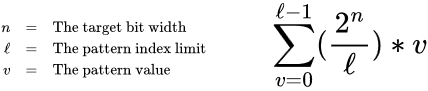
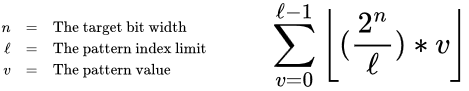
Added flooring to the formulas

diff --git a/enigma2/E2S1 - Index Diminishment.md b/enigma2/E2S1 - Index Diminishment.md
@@ -84,19 +84,19 @@ formula arises -
     ℓ = The pattern index's limit
     𝑣 = The pattern's numeric value
 
-    𝑥 = (2ⁿ/ℓ) * 𝑣
+    𝑥 = ⌊(2ⁿ/ℓ) * 𝑣⌋
 
     let 𝑛 = 7
 
         ⬐ The pattern
-    [ 0 0 0   0 0 0 0 0 ]   (0) = (2⁷/8) * 0
-    [ 0 0 1   0 0 0 0 0 ]  (16) = (2⁷/8) * 1
-    [ 0 1 0   0 0 0 0 0 ]  (32) = (2⁷/8) * 2
-    [ 0 1 1   0 0 0 0 0 ]  (48) = (2⁷/8) * 3
-    [ 1 0 0   0 0 0 0 0 ]  (64) = (2⁷/8) * 4
-    [ 1 0 1   0 0 0 0 0 ]  (80) = (2⁷/8) * 5
-    [ 1 1 0   0 0 0 0 0 ]  (96) = (2⁷/8) * 6
-    [ 1 1 1   0 0 0 0 0 ] (112) = (2⁷/8) * 7
+    [ 0 0 0   0 0 0 0 0 ]   (0) = ⌊(2⁷/8) * 0⌋
+    [ 0 0 1   0 0 0 0 0 ]  (16) = ⌊(2⁷/8) * 1⌋
+    [ 0 1 0   0 0 0 0 0 ]  (32) = ⌊(2⁷/8) * 2⌋
+    [ 0 1 1   0 0 0 0 0 ]  (48) = ⌊(2⁷/8) * 3⌋
+    [ 1 0 0   0 0 0 0 0 ]  (64) = ⌊(2⁷/8) * 4⌋
+    [ 1 0 1   0 0 0 0 0 ]  (80) = ⌊(2⁷/8) * 5⌋
+    [ 1 1 0   0 0 0 0 0 ]  (96) = ⌊(2⁷/8) * 6⌋
+    [ 1 1 1   0 0 0 0 0 ] (112) = ⌊(2⁷/8) * 7⌋
                   ⬑ The trailing zeros
 
 Now you can recursively apply this operation against an index one pattern bit width smaller in size until you
@@ -104,26 +104,26 @@ reach zero bits -
 
     𝑛 = 𝑛 - 3
 
-            [ 0 0 0   0 ]   (0) = (2⁴/8) * 0
-            [ 0 0 1   0 ]   (2) = (2⁴/8) * 1
-            [ 0 1 0   0 ]   (4) = (2⁴/8) * 2
-            [ 0 1 1   0 ]   (6) = (2⁴/8) * 3
-            [ 1 0 0   0 ]   (8) = (2⁴/8) * 4
-            [ 1 0 1   0 ]  (10) = (2⁴/8) * 5
-            [ 1 1 0   0 ]  (12) = (2⁴/8) * 6
-            [ 1 1 1   0 ]  (14) = (2⁴/8) * 7
+            [ 0 0 0   0 ]   (0) = ⌊(2⁴/8) * 0⌋
+            [ 0 0 1   0 ]   (2) = ⌊(2⁴/8) * 1⌋
+            [ 0 1 0   0 ]   (4) = ⌊(2⁴/8) * 2⌋
+            [ 0 1 1   0 ]   (6) = ⌊(2⁴/8) * 3⌋
+            [ 1 0 0   0 ]   (8) = ⌊(2⁴/8) * 4⌋
+            [ 1 0 1   0 ]  (10) = ⌊(2⁴/8) * 5⌋
+            [ 1 1 0   0 ]  (12) = ⌊(2⁴/8) * 6⌋
+            [ 1 1 1   0 ]  (14) = ⌊(2⁴/8) * 7⌋
 
     𝑛 = 𝑛 - 3
 
-                    [ 0 ]   (0) = (2¹/8) * 0
-                    [ 0 ]   (0) = (2¹/8) * 1
-                    [ 0 ]   (0) = (2¹/8) * 2
-                    [ 0 ]   (0) = (2¹/8) * 3
-                    [ 1 ]   (1) = (2¹/8) * 4
-                    [ 1 ]   (1) = (2¹/8) * 5
-                    [ 1 ]   (1) = (2¹/8) * 6
-                    [ 1 ]   (1) = (2¹/8) * 7
-                             ⬑ NOTE: These naturally floor to the nearest whole integer
+                    [ 0 ]   (0) = ⌊(2¹/8) * 0⌋
+                    [ 0 ]   (0) = ⌊(2¹/8) * 1⌋
+                    [ 0 ]   (0) = ⌊(2¹/8) * 2⌋
+                    [ 0 ]   (0) = ⌊(2¹/8) * 3⌋
+                    [ 1 ]   (1) = ⌊(2¹/8) * 4⌋
+                    [ 1 ]   (1) = ⌊(2¹/8) * 5⌋
+                    [ 1 ]   (1) = ⌊(2¹/8) * 6⌋
+                    [ 1 ]   (1) = ⌊(2¹/8) * 7⌋
+                             ⬑ NOTE: This is floored
 
 So, let's put that all together and find the 4ᵗʰ interval of a 3 bit diminishment of an 11 bit index -
 
